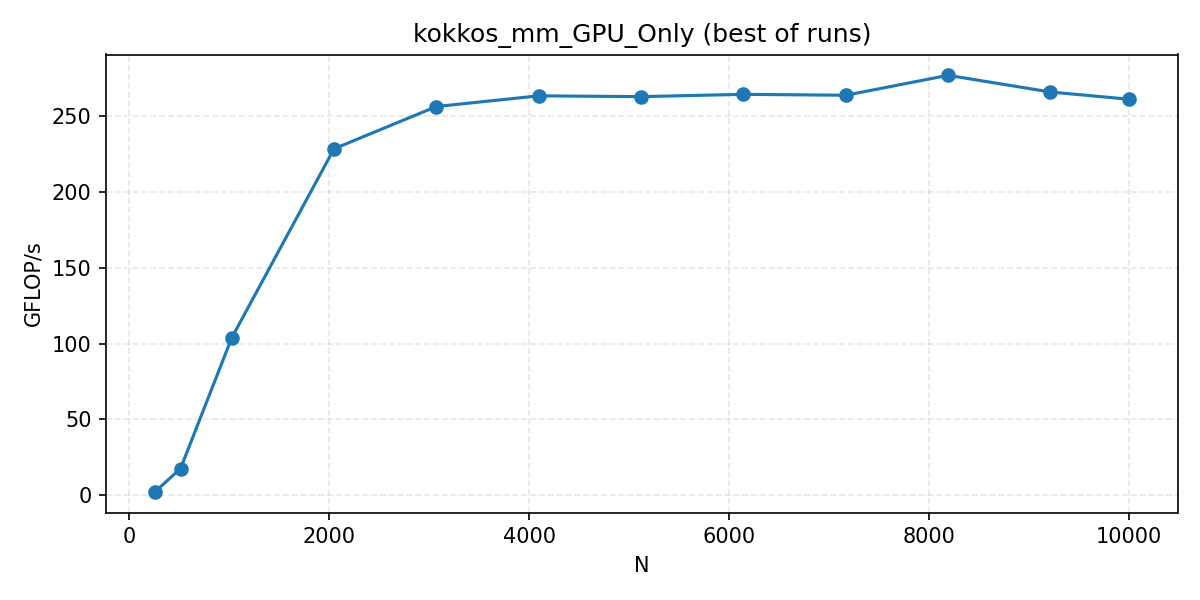
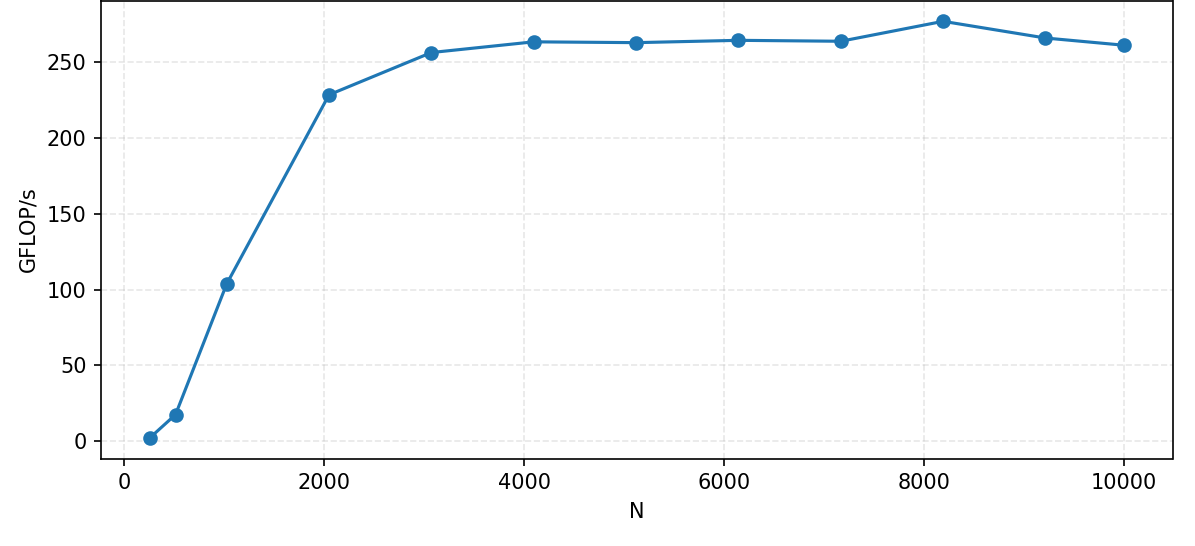
Update task01.md with performance notes and clarifications on benchmarking methodology

diff --git a/assignment08/report/task01.md b/assignment08/report/task01.md
@@ -15,10 +15,11 @@ For execution of the various executables we used the suggested OMP flags from Ko
 OMP_PROC_BIND=spread
 OMP_PLACES=threads
 ```
+Note: in many test runs these environment variables had negligable impact on the performance, however we still used them for consistency.
 
 We ran the following benchmarks without any repetition logic because we focused more on the larger matrix sizes, where this would not impact the results. However for smaller matrix sizes this could effect the result, as the CPU would first have to windup the clock from idle frequency. 
 
-In addition to combat per-run variance and eliminate any side effects from OS we ran the benchmark for each matrix size 5 times and took the average as our measurement of comparison. For completeness we also included minimum and maximum values in our datasets.
+In addition to combat per-run variance and eliminate any side effects from OS we ran the benchmark for each matrix size 5 times and took the average as our measurement of comparison (or if stated otherwiese we used the best result of 6 exeutions if the variance was little), for completeness we also included minimum and maximum values in our datasets.
 
 ## c)
 
@@ -38,7 +39,7 @@ Max Work Group Size: 1024
 
 ### Bandwidth Calculation
 
-Data transferred = 3 * N * N * 8
+Data transferred = 3 * N * N * 8 Bytes
 
 | N    | time_s  | GFLOP/s | GB/s |
 |-----:|-------:|--------:|-----:|
@@ -54,36 +55,41 @@ Data transferred = 3 * N * N * 8
 | `8192` | 3.96987 | `276.964` | 0.406 |
 | 9216 | 5.88655 | 265.948 | 0.346 |
 
-The highest bandwidth is achieved for N=2048 with 1.339 GB/s. Which is far below the theoretical maximum Bandwidth for HBM. Refelcting that this is a compute bound problem and not memory bound.
+The highest bandwidth is achieved for N=2048 with 1.339 GB/s. Which is far below the theoretical maximum Bandwidth for HBM (~1.5 TB/s). Refelcting that this is a compute bound problem and not memory bound.
 
 > The highest Bandwidth utilization we could achieve in Task 1 is around 3.3 GB/s. Still far below the theoretical peak.
 
 ## e)
 
-### row wise distribution
-There are three parameters to tune: Number of Teams, Team size and Vector Length.
-For Vector Length it is important that Team size x vector length must be smaler than 1024 (max work group size).
-In our tests we found that vector length AUTO gave the best results.
-To parallelize the workload we wnt with an row wise distribution of the resulting matrix to the teams.
-
-For N=6144 the best configuration is 6114 Teams and 128 Threads per Team.
-With this configuration every Team calculates a row of the resulting matrix. Every other combination of Teams and Threads per Team resulted in longer execution times.
-With this configuration we achieved the following results:
-
+### row wise distribution (Disregard this approach tiled is better)
+>There are three parameters to tune: Number of Teams, Team size and Vector Length.
+>For Vector Length it is important that Team size x vector length must be smaler than 1024 (max work group size).
+>In our tests we found that vector length AUTO gave the best results.
+>To parallelize the workload we went with an row wise distribution of the resulting matrix to the teams.
+>For N=6144 the best configuration is 6114 Teams and 128 Threads per Team.
+>With this configuration every Team calculates a row of the resulting matrix. Every other combination of Teams and Threads per Team resulted in longer execution times.
+>With this configuration we achieved the following results:
 ``` 
 [GPU] Time:       0.761619 s
 [GPU] GFLOP/s:    609.04
 [GPU] Checksum:   5.91474e+14
 ```
-
 ![](rowwise_perf.png)
+>Although this configuration dosnt alightn with the device properties of max work group size of 1024, it seems to be the optimal configuration for this problem size on this hardware. Simply due to overhead minimization by not splitting the work whilst still having enough threads to cover memory latency.
 
-Although this configuration dosnt alightn with the device properties of max work group size of 1024, it seems to be the optimal configuration for this problem size on this hardware. Simply due to overhead minimization by not splitting the work whilst still having enough threads to cover memory latency.
+### tiling approach
+Params:
+- N=6144
+- tile_m= row size
+- tile_n= column size
+- Amount of Teams = Amount of tiles (so for m = 64 and n = 16: 36,864 Teams)
+- team_size: number of threads per team
+- vec_len= how many lanes run in parallel for the inner loop with `team_size * vec_len ≤ 1024` (note: the `AUTO` feature of Kokkos didn't yield the best results here)
+  
 
-### tiling for N=6144
 Top 10 configs by GFLOP/s ([for all measurements](../src/mm-gpu-kokkos/tiled_results_6144.txt)):
 
-| tile_m | tile_n | team | vec | time_s | gflops  |
+| tile_m | tile_n | team_size | vec_len| time_s | gflops  |
 |-------:|-------:|-----:|----:|-------:|-------:|
 | 64     | 16     | 64   | 16  | 0.428381 | 1082.81 |
 | 64     | 32     | 64   | 16  | 0.429695 | 1079.50 |
@@ -107,8 +113,10 @@ When runing those tiling configurations against N we got the following plot:
 All configurations behave very similar and for N around 6144 they all achive over 1 TFLOP/s. 
 
 ## f)
+Disregard row-wise approach, tiled is better
 
 Params for Row-wise: `N=6144`, `teams=6144`, `threads_per_team=128`, `vec_len=AUTO (-1)`
+
 Params for Tiled: `N=6144`, `tile_m=64`, `tile_n=16`, `teams=64`, `vec_len=16`
 
 | Layout | Row-wise GFLOP/s | Row-wise Time [s] | Tiled GFLOP/s | Tiled Time [s] |
